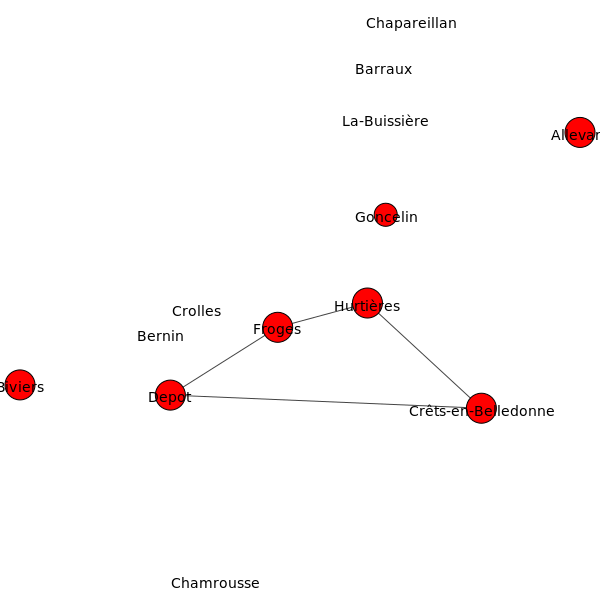
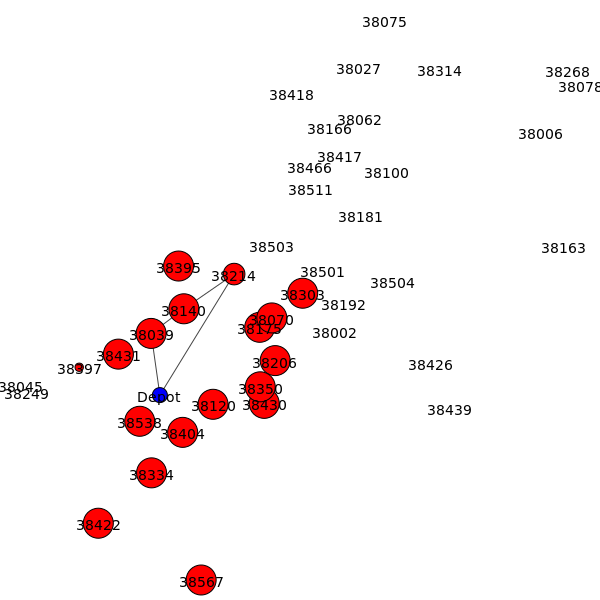
final solution

diff --git a/LT/project/print_sol.py b/LT/project/print_sol.py
@@ -20,10 +20,10 @@ p1 = Plot()
 #   3. Gather population values from rawdata
 
 ## Annexe
-additional_entries = [['Depot', '00000', 0, 0, 0, 0, 0, 0, 5.87114, 45.2313]]
+additional_entries = [['Depot', 'Depot', 0, 0, 0, 0, 0, 0, 5.87114, 45.2313]]
 distances = 'LT/project/txt_files/distances.txt'
 w_time = 5.1
-duration = 1
+duration = 2
 
 # Solution found for MILP. Each y_i correspond to a tour; ordered. each x_i correspond to a fraction of the tour realized. 
 y_1 = [9, 11, 1, 5]
@@ -44,6 +44,9 @@ x_6 = [1]
 x_7 = [1, 0.77]
 X = [x_1, x_2, x_3, x_4, x_5, x_6, x_7]
 
+#Solution of Anas (Clustering)
+Yp = [[20, 0, 21, 12, 28, 5], [22, 36, 38, 11, 39, 14, 1, 28, 19], [25, 16, 40, 10, 24, 6, 33, 41, 9, 22], [3, 26, 30], [25, 7, 2], [23, 30, 35, 2, 27, 15, 18, 8, 17], [23, 29, 32, 4, 31, 13, 34, 37]]
+Xp = [[1.0, 1.0, 1.0, 1.0, 0.6556399132321041, 1.0], [0.7230721198876053, 1.0, 1.0, 1.0, 1.0, 1.0, 1.0, 0.34436008676789587, 1.0], [0.2794049279404928, 1.0, 1.0, 1.0, 1.0, 1.0, 1.0, 1.0, 1.0, 0.2769278801123946], [1.0, 1.0, 0.7220324508966696], [0.7205950720595072, 1.0, 0.961892247043364], [0.24876948318293685, 0.2779675491033305, 1.0, 0.03810775295663601, 1.0, 1.0, 1.0, 1.0, 1.0], [0.7512305168170632, 1.0, 1.0, 1.0, 1.0, 1.0, 1.0, 1.0]]
  
 raw_data = [['Allevard', 38006, 25.63, 4062.0, '158', 326, 356,6.0744406,45.3934726],
 ['Barraux', 38027, 11.13, 1918.0, '172', 223, 80,5.9773523,45.4337691],
@@ -90,7 +93,7 @@ raw_data = [['Allevard', 38006, 25.63, 4062.0, '158', 326, 356,6.0744406,45.3934
 
 #
 
-selected_cities = [i for i in range(12)]
+selected_cities = [i for i in range(len(raw_data))]
 city_col = 'black'
 active_col = 'red'
 depot_col = 'blue'
@@ -100,6 +103,7 @@ inactive_edge_col = 'black'
 
 images_loc = 'LT/project/images/'
 gif_loc = 'LT/project/gif/'
+name_type = 'code'  #'name'
 
 def main():
     # 1
@@ -109,6 +113,11 @@ def main():
 
     for entry  in additional_entries:
         useful_entries.append(entry)
+
+    if name_type == 'code':
+        for entry in useful_entries:
+            entry[0], entry[1] = entry[1], entry[0]
+            entry[0] = str( entry[0])
 
 
     #2
@@ -125,8 +134,12 @@ def main():
         COOX.append(100*(GPSX[i]-xmin)/(xmax-xmin))
         COOY.append(100*(GPSY[i]-ymin)/(ymax-ymin))
 
-    g = igraph.Graph(len(selected_cities)+1)
+    g = igraph.Graph(len(useful_entries))
+
     layout1 = g.layout('rt', 2)
+
+    print(useful_entries)
+    print(COOX)
 
     for i in range(len(layout1)):
         layout1[i] = (-COOX[i], -COOY[i])
@@ -148,7 +161,7 @@ def main():
 
     #name = images_loc + 'test.png'
     #igraph.plot(g, name, layout = layout1, vertex_color = [vs_dict[v_type]  for v_type in g.vs['type']], vertex_size = [1.7*pop_i for pop_i in Pop  ] )
-    partial_solution(X, Y, useful_entries, g,layout1)
+    partial_solution(Xp, Yp, useful_entries, g,layout1)
 
 
 def get_matrix(dim, verb = True, data = raw_data):
@@ -253,20 +266,26 @@ def solution_animation(X, Y, useful_entries,g, layout1):
     for v in g.vs:
         v["size"] = 30
 
+    g.vs[-1]["size"] = 15
+
+
+    #print(len(useful_entries))
+    #print(useful_entries)
 
     for i in range(len(Y)):
         name = images_loc +'tour_'+str(i+1)
-        tour = [12] + Y[i] + [12]
+        tour = [42] + Y[i] + [42]
         gp = g
         
 
-        igraph.plot(gp, name +'_1.png', layout = layout1, vertex_size = [ v["size"] for v in gp.vs  ] )
+        igraph.plot(gp, name +'_1.png', layout = layout1, vertex_size = [ v["size"] for v in gp.vs  ] , vertex_color = ['red' for v in range(len(useful_entries)-1)] + ['blue'] )
 
         for j in range(len(tour)-1):
-            gp.add_edge(tour[j], tour[j+1])
+            #print("add edge:", str(tour[j]), str(tour[j+1]))
+            gp.add_edge(    int(tour[j])  , int(tour[j+1] ) )
 
         
-        igraph.plot(gp, name+'_2.png', layout=layout1, vertex_size = [ v["size"] for v in gp.vs  ])
+        igraph.plot(gp, name+'_2.png', layout=layout1, vertex_size = [ v["size"] for v in gp.vs  ], vertex_color = ['red' for v in range(len(useful_entries)-1)] + ['blue'] )
 
         for j in range(len(Y[i])):
             v_j = Y[i][j]
@@ -289,6 +308,8 @@ def solution_animation(X, Y, useful_entries,g, layout1):
     images = []
     for fname in filename_list:
         images.append(imageio.imread(fname))
+    for i in range(5):
+        images.append(imageio.imread(filename_list[-1]))
     imageio.mimsave(gif_loc + 'gif_sol_12.gif', images, duration=duration)
     
 
@@ -307,7 +328,8 @@ def optimal_value(X, Y, useful_entries):
         tour_time = 0
         tour = [12] + Y[k] + [12]
         for i in range(len(tour)-1):
-            tour_time += float(Mt[tour[i]][tour[i+1]])
+            
+            tour_time += float( Mt[ int(tour[i])][int(tour[i+1]) ] )
         total_time += tour_time
     print("total traveling time is " + str(total_time))
 
